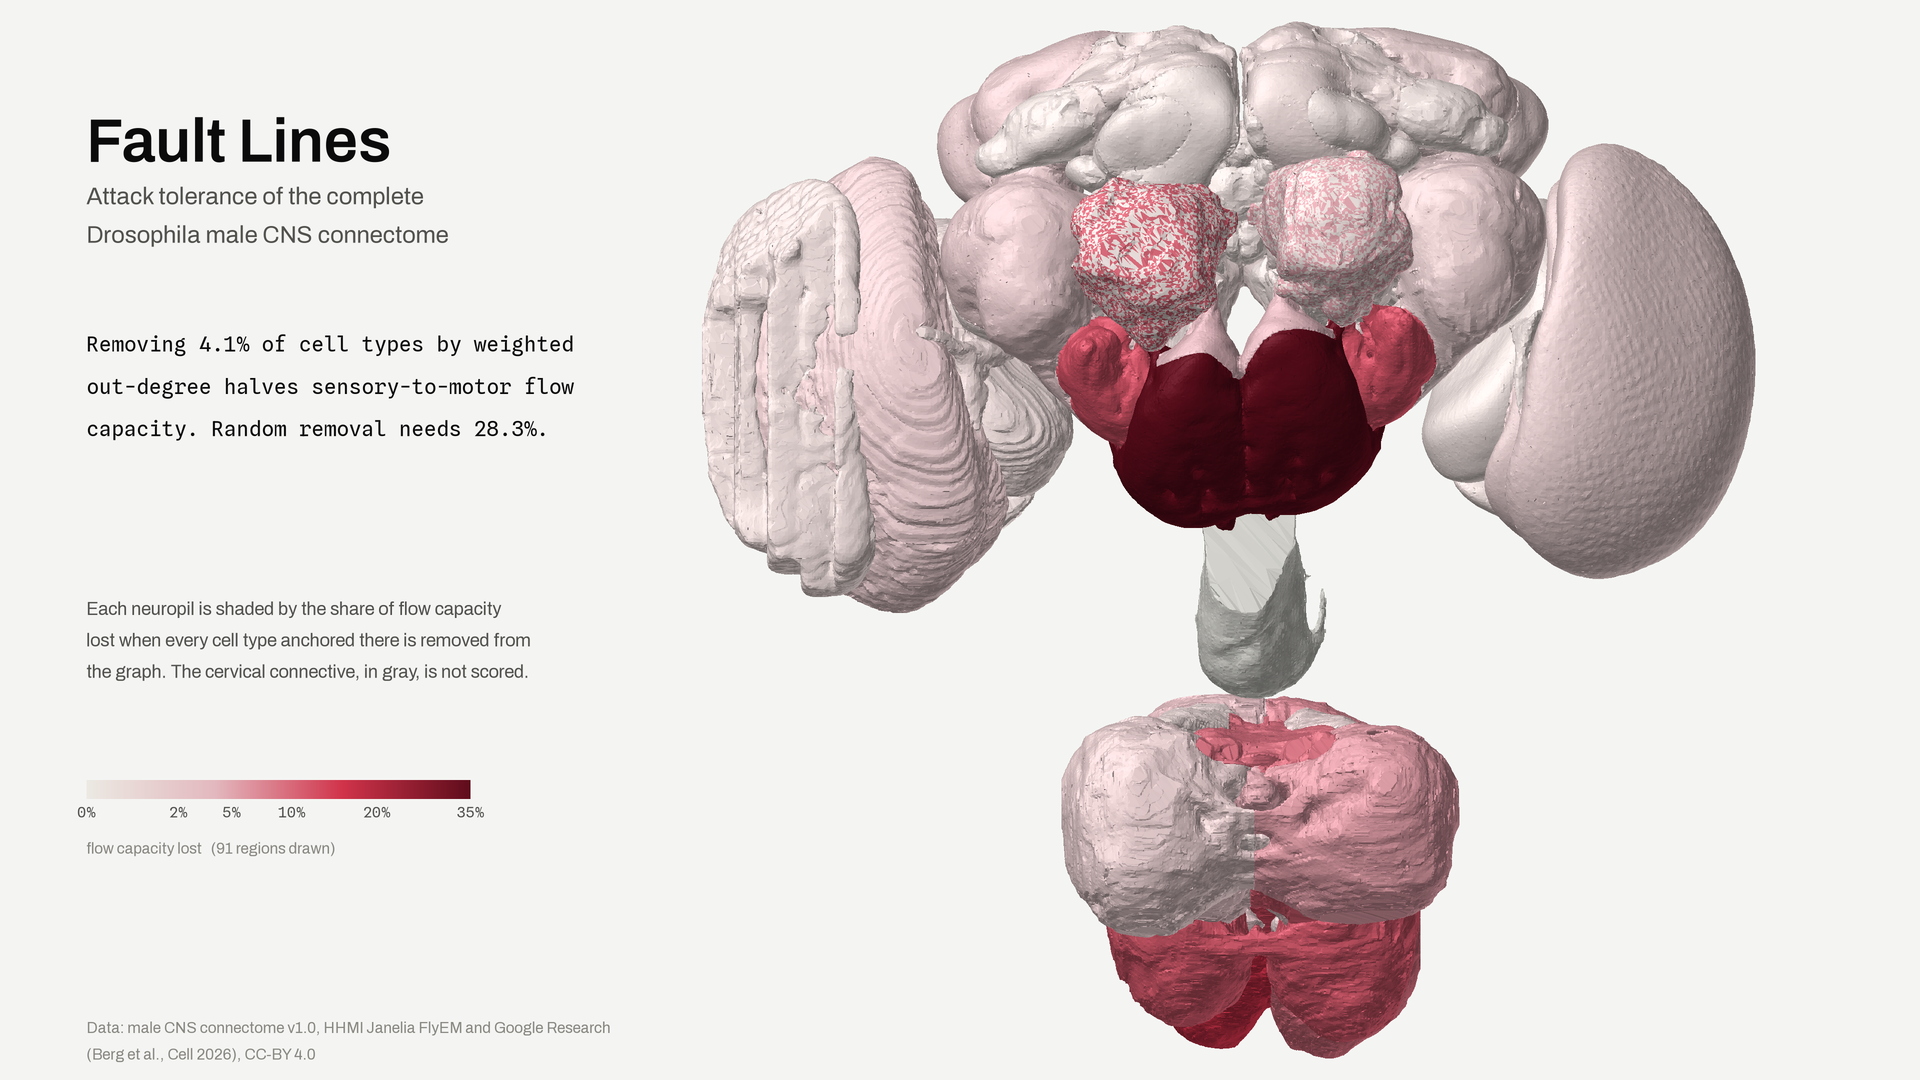
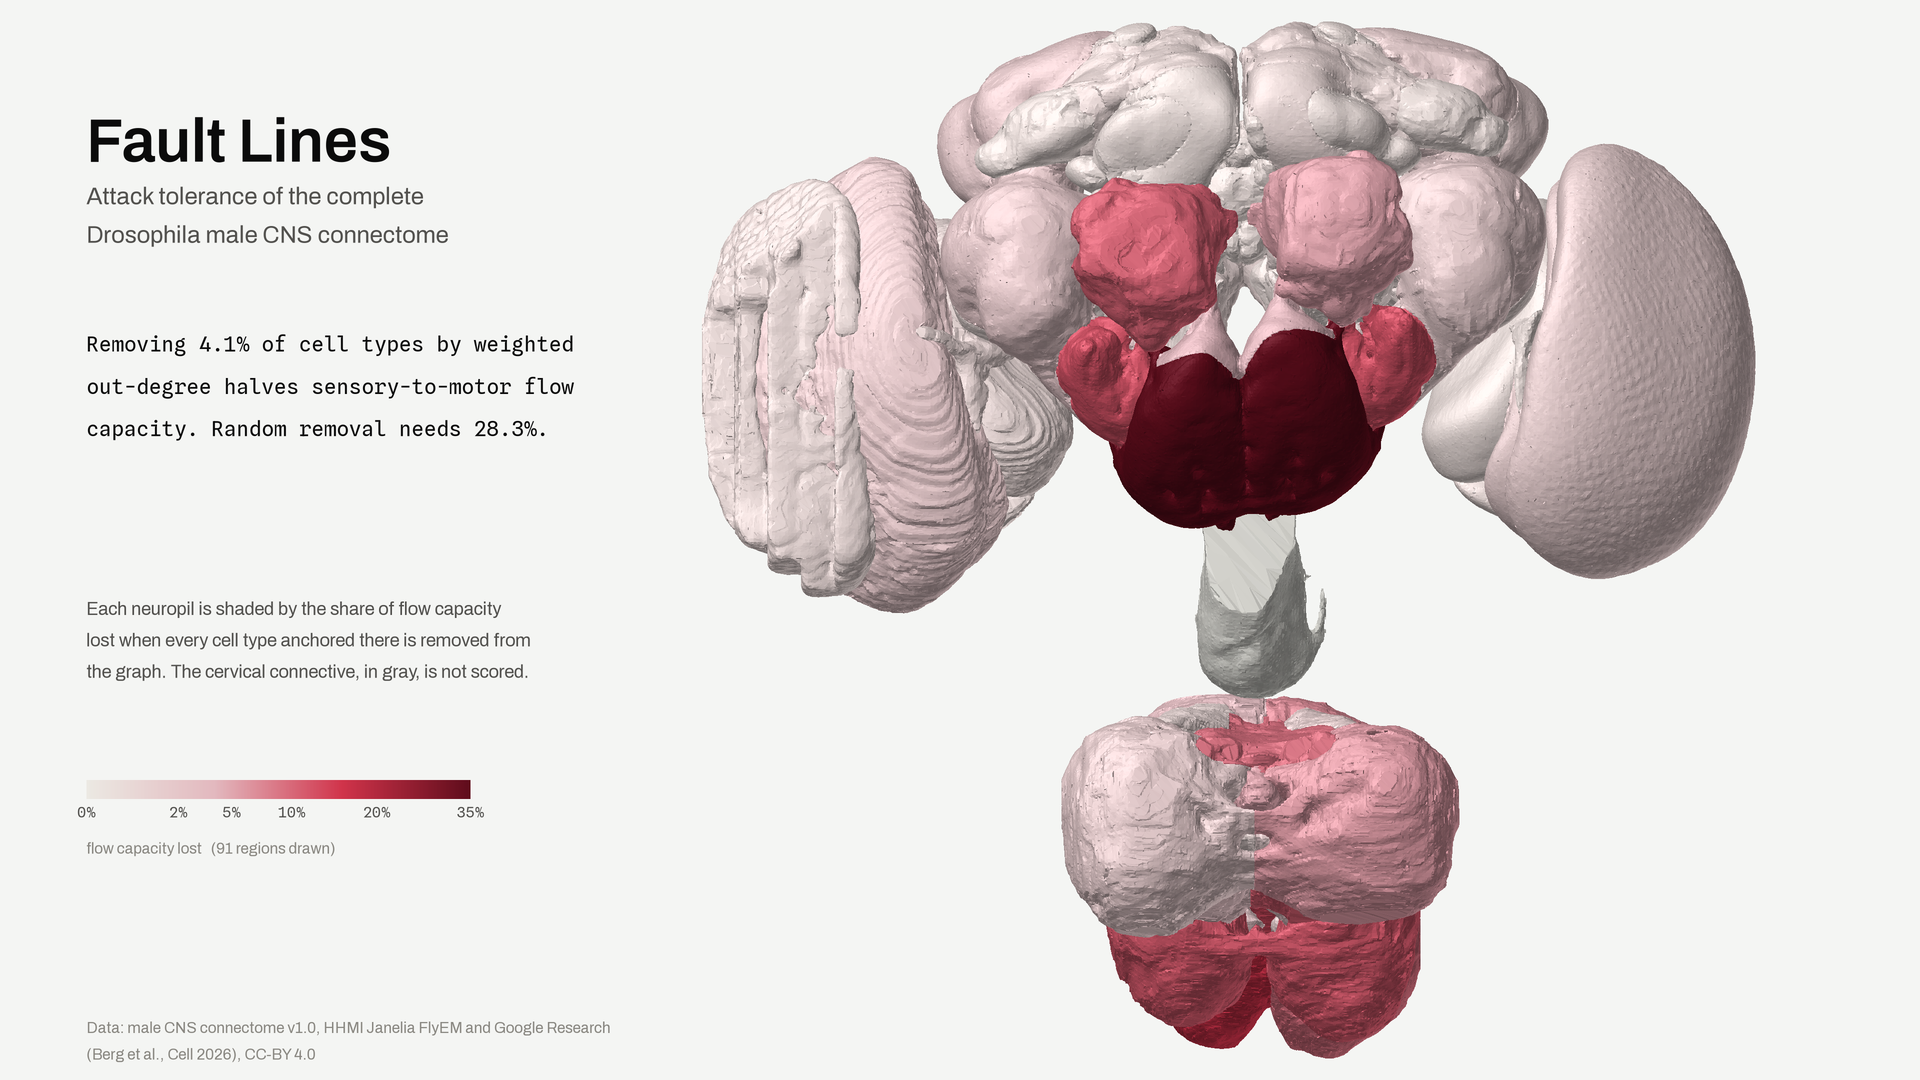
Cache region meshes under case-distinct names so the alpha lobes render

Changed region(s): [[0.5625, 0.1222, 0.75, 0.3361], [0.6875, 0.0, 0.7188, 0.0611], [0.5625, 0.0306, 0.5938, 0.0611]]

diff --git a/pipeline/render_hero.py b/pipeline/render_hero.py
@@ -1,8 +1,10 @@
 """Render the male CNS neuropils, each shaded by the sensory-to-motor flow lost when its cell types are removed."""
 
+import hashlib
 import json
 import textwrap
 import urllib.parse
+from pathlib import Path
 
 import numpy as np
 import pandas as pd
@@ -11,7 +13,7 @@ from matplotlib.collections import PolyCollection
 from matplotlib.colors import LinearSegmentedColormap, to_rgb
 from PIL import Image
 
-from pipeline.common import ASSETS, DATA, RESULTS
+from pipeline.common import ASSETS, DATA, RESULTS, ROOT
 from pipeline.figures import plt
 from pipeline.fonts import register
 from pipeline.removal_strategies import STRATEGY_LABELS
@@ -34,6 +36,9 @@ UNSCORED_ROIS = ("CV-anterior", "CV-posterior")
 UNSCORED_COLOR = "#d6d5cf"
 GAMMA = 0.5
 SCALE_TICKS = (0.0, 0.02, 0.05, 0.10, 0.20, 0.35)
+MAP_MESH_BOX = (690, 5, 1780, 1062)
+MAP_SCALE_BOX = (50, 777, 640, 870)
+PAPER_DIR = ROOT / "paper"
 
 
 def mesh_names(source: str) -> list[str]:
@@ -42,11 +47,16 @@ def mesh_names(source: str) -> list[str]:
     return list(info["properties"][0]["values"])
 
 
+def mesh_cache_path(source: str, name: str) -> Path:
+    """Cache file for one neuropil mesh, unique even on case-insensitive filesystems (AL(R) and aL(R) both exist)."""
+    digest = hashlib.sha1(name.encode("utf-8")).hexdigest()[:8]
+    return MESH_CACHE / source / f"{name}.{digest}.ngmesh"
+
+
 def load_mesh(source: str, name: str) -> tuple[np.ndarray, np.ndarray] | None:
     """Vertices (nm) and triangles of one neuropil, cached on disk; None when no mesh is published."""
-    cache = MESH_CACHE / source
-    cache.mkdir(parents=True, exist_ok=True)
-    path = cache / f"{name}.ngmesh"
+    path = mesh_cache_path(source, name)
+    path.parent.mkdir(parents=True, exist_ok=True)
     if not path.exists():
         response = requests.get(f"{MESH_SOURCES[source]}/mesh/{urllib.parse.quote(name)}.ngmesh", timeout=600)
         if response.status_code == 404:
@@ -176,6 +186,18 @@ def render(meshes: dict, impact: pd.Series, headline: dict, path, pitch: float =
     image.resize(HERO_SIZE, Image.LANCZOS).save(path, optimize=True)
 
 
+def crop_regional_map(hero_path, path) -> None:
+    """Cut the report's regional impact figure from the hero: the meshes, with the color scale beneath and no title."""
+    hero = Image.open(hero_path).convert("RGB")
+    if hero.size != HERO_SIZE:
+        raise ValueError(f"Expected a {HERO_SIZE[0]}x{HERO_SIZE[1]} hero, got {hero.size[0]}x{hero.size[1]}")
+    mesh, scale = hero.crop(MAP_MESH_BOX), hero.crop(MAP_SCALE_BOX)
+    figure = Image.new("RGB", (mesh.width, mesh.height + scale.height), PAPER)
+    figure.paste(mesh, (0, 0))
+    figure.paste(scale, (0, mesh.height))
+    figure.save(path, optimize=True)
+
+
 def main() -> None:
     table = load_regional_impact()
     impact = table.set_index("neuropil")["flow_drop"]
@@ -186,6 +208,7 @@ def main() -> None:
     meshes = load_meshes(set(impact.index) | set(UNSCORED_ROIS))
     ASSETS.mkdir(exist_ok=True)
     render(meshes, impact, headline, ASSETS / "hero.png")
+    crop_regional_map(ASSETS / "hero.png", PAPER_DIR / "regional_impact_map.png")
     missing = sorted(set(impact.index) - set(meshes))
     print(f"Rendered {len(meshes)} neuropils at {HERO_SIZE[0]}x{HERO_SIZE[1]}")
     print(f"No published mesh for {len(missing)} scored regions: {', '.join(missing)}")

diff --git a/tests/test_hero_geometry.py b/tests/test_hero_geometry.py
@@ -1,7 +1,9 @@
 import numpy as np
 import pytest
+from PIL import Image
 
-from pipeline.render_hero import rotation, simplify
+from pipeline.render_hero import (HERO_SIZE, MAP_MESH_BOX, MAP_SCALE_BOX, PAPER, crop_regional_map,
+                                 mesh_cache_path, rotation, simplify)
 
 
 def cube(scale=1.0):
@@ -51,3 +53,32 @@ def test_rotation_is_orthonormal_and_identity_at_zero():
 def test_pitch_rotates_the_vertical_axis_into_the_depth_axis():
     assert rotation(90.0, 0.0) @ np.array([0.0, 1.0, 0.0]) == pytest.approx([0.0, 0.0, -1.0], abs=1e-12)
     assert rotation(0.0, 90.0) @ np.array([0.0, 0.0, 1.0]) == pytest.approx([1.0, 0.0, 0.0], abs=1e-12)
+
+
+def test_mesh_names_differing_only_in_case_get_distinct_cache_files():
+    antennal, alpha = mesh_cache_path("brain", "AL(R)"), mesh_cache_path("brain", "aL(R)")
+    assert antennal.name.lower() != alpha.name.lower()
+    assert mesh_cache_path("brain", "AL(R)") == antennal
+
+
+def test_regional_map_is_the_mesh_box_with_the_scale_box_beneath(tmp_path):
+    rng = np.random.default_rng(0)
+    hero = rng.integers(0, 256, size=(HERO_SIZE[1], HERO_SIZE[0], 3), dtype=np.uint8)
+    Image.fromarray(hero).save(tmp_path / "hero.png")
+    crop_regional_map(tmp_path / "hero.png", tmp_path / "map.png")
+    figure = np.asarray(Image.open(tmp_path / "map.png"))
+
+    left, top, right, bottom = MAP_MESH_BOX
+    assert figure.shape == (bottom - top + MAP_SCALE_BOX[3] - MAP_SCALE_BOX[1], right - left, 3)
+    assert (figure[: bottom - top] == hero[top:bottom, left:right]).all()
+    s_left, s_top, s_right, s_bottom = MAP_SCALE_BOX
+    scale = figure[bottom - top :]
+    assert (scale[:, : s_right - s_left] == hero[s_top:s_bottom, s_left:s_right]).all()
+    paper = np.array([int(PAPER[i : i + 2], 16) for i in (1, 3, 5)])
+    assert (scale[:, s_right - s_left :] == paper).all()
+
+
+def test_regional_map_rejects_a_hero_of_another_size(tmp_path):
+    Image.new("RGB", (100, 100)).save(tmp_path / "small.png")
+    with pytest.raises(ValueError):
+        crop_regional_map(tmp_path / "small.png", tmp_path / "map.png")
